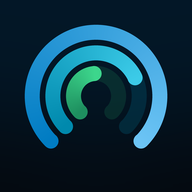
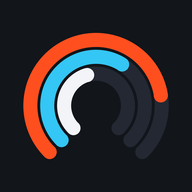
Icono de la app con la paleta nueva: anillos Ember/Volt/Paper sobre Asphalt (+ script generador)

diff --git a/scripts/make_icon.py b/scripts/make_icon.py
@@ -1,0 +1,55 @@
+"""Genera los iconos de la app: tres anillos concéntricos de 270° (apertura abajo, como el anillo de fatiga)
+en Ember / Volt / Paper sobre Asphalt. Supermuestreo 4x y reducción LANCZOS."""
+import math
+import sys
+from PIL import Image, ImageDraw
+
+ASPHALT = (0x12, 0x15, 0x1A)
+STEEL2 = (0x23, 0x28, 0x33)
+EMBER = (0xFF, 0x4F, 0x1F)
+VOLT = (0x34, 0xC6, 0xF4)
+PAPER = (0xF2, 0xF4, 0xF7)
+
+S = 2048  # lienzo de trabajo
+START, SWEEP = 135, 270  # PIL: grados en sentido horario desde las 3 en punto; 135 = abajo-izquierda
+RINGS = [  # radio de la línea central, grosor, color, fracción rellena
+    (700, 150, EMBER, 0.80),
+    (520, 150, VOLT, 0.62),
+    (340, 150, PAPER, 0.44),
+]
+
+
+def arc(draw, cx, cy, r, w, color, frac):
+    # PIL dibuja el grosor hacia dentro desde el bbox: radio exterior = r + w/2.
+    outer = r + w / 2
+    box = [cx - outer, cy - outer, cx + outer, cy + outer]
+    end = START + SWEEP * frac
+    draw.arc(box, START, end, fill=color, width=int(w))
+    for ang in (START, end):  # tapas redondeadas
+        x = cx + r * math.cos(math.radians(ang))
+        y = cy + r * math.sin(math.radians(ang))
+        draw.ellipse([x - w / 2, y - w / 2, x + w / 2, y + w / 2], fill=color)
+
+
+def render():
+    img = Image.new("RGB", (S, S), ASPHALT)
+    d = ImageDraw.Draw(img)
+    cx = S / 2
+    # La apertura inferior hace que el conjunto se extienda más por encima del centro (R) que por debajo
+    # (R·cos45° + tapa): se baja el centro para que la masa quede centrada en el lienzo.
+    r0, w0 = RINGS[0][0], RINGS[0][1]
+    top, bottom = r0 + w0 / 2, r0 * math.cos(math.radians(45)) + w0 / 2
+    cy = S / 2 + (top - bottom) / 2
+    for r, w, color, frac in RINGS:
+        arc(d, cx, cy, r, w, STEEL2, 1.0)  # pista
+    for r, w, color, frac in RINGS:
+        arc(d, cx, cy, r, w, color, frac)
+    return img
+
+
+if __name__ == "__main__":
+    out = sys.argv[1]
+    big = render()
+    for name, size in [("icon-512.png", 512), ("icon-192.png", 192), ("apple-touch-icon.png", 180), ("favicon-32.png", 32)]:
+        big.resize((size, size), Image.LANCZOS).save(f"{out}/{name}", optimize=True)
+    print("ok")

diff --git a/docs/DECISIONS.md b/docs/DECISIONS.md
@@ -84,5 +84,5 @@ Se sustituye "Garmin by Apple" (Inter, cristal con desenfoque, manchas de fondo,
 Asphalt `#12151A` (fondo), Steel `#1B1F27` (tarjetas), Steel-2 `#232833` (control activo), Ember `#FF4F1F` (acción y logro), Volt `#34C6F4` (datos y gráficas), Fatiga `#E23D3D` (solo alerta), Paper/Fog (texto).
 Barlow Condensed (títulos), IBM Plex Sans (cuerpo), IBM Plex Mono (vatios, ppm, kg, %, TSS, fechas cortas). Radios 18 (tarjetas) / 12 (celdas) / 999 (botones). Sin gradientes, sombras ni emojis. Texto sobre Ember en Asphalt (contraste).
 Mecanismo: todo cuelga de `app/tokens.css` y de los alias de `globals.css`, así que los componentes antiguos adoptan la paleta sin reescribirse; las clases `glass-card`/`data-surface`/`glass-bar` se conservan como nombres pero ahora son superficies planas. Para un tema claro futuro basta definir los mismos tokens bajo `:root[data-theme="light"]`.
-Pendiente: el icono de la app (anillos azul/cian/verde sobre `#05080d`) no se regeneró con la paleta nueva.
+Icono de la app: tres anillos concéntricos de 270° (apertura abajo, como el anillo de fatiga) en Ember / Volt / Paper sobre Asphalt, generado con `scripts/make_icon.py <carpeta_salida>` (Pillow). Copiar el resultado a `public/icons/` y, como `app/icon.png` (192) y `app/apple-icon.png` (180).
 Desviación del prompt original: el detalle del anillo de fatiga NO muestra el ACWR en el botón colapsado (decisión 6: la vista principal usa lenguaje humano); el número aparece al desplegar "Ver detalle".
